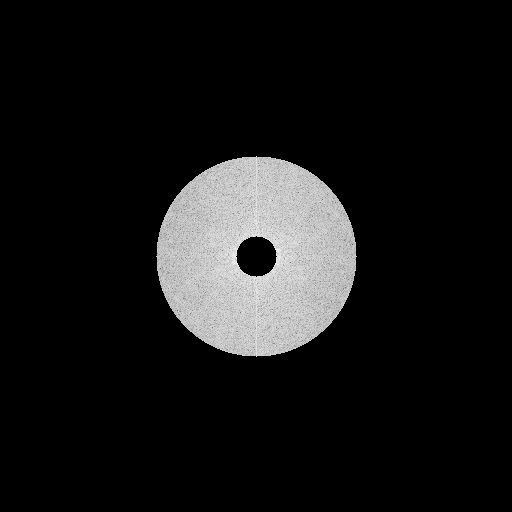
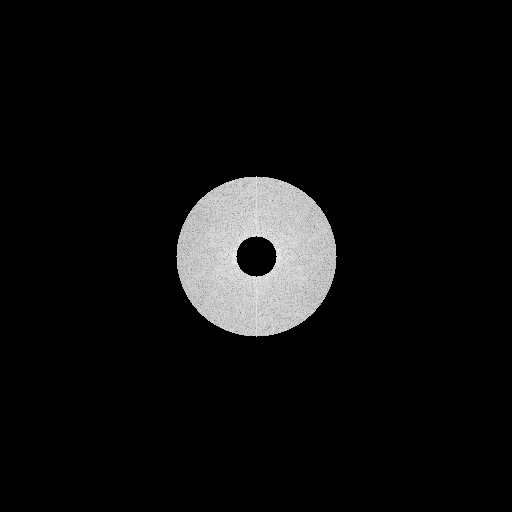
filtros

Changed region(s): [[0.2812, 0.2812, 0.7188, 0.7188]]

diff --git a/trabalho2/trabalho2.py b/trabalho2/trabalho2.py
@@ -30,16 +30,16 @@ def create_filters(img):
 
     #kernel passa-baixa
     passa_baixa = np.zeros((rows, cols), np.uint8)
-    cv2.circle(passa_baixa, image_center, 80, 1, cv2.FILLED)
+    cv2.circle(passa_baixa, image_center, 60, 1, cv2.FILLED)
 
     #kernel passa-faixa
     passa_faixa = np.zeros((rows, cols), np.uint8)
-    cv2.circle(passa_faixa, image_center, 100, 1, cv2.FILLED)
+    cv2.circle(passa_faixa, image_center, 80, 1, cv2.FILLED)
     cv2.circle(passa_faixa, image_center, 20, 0, cv2.FILLED)
 
     #kernel passa-alta
     passa_alta = np.ones((rows, cols), np.uint8)
-    cv2.circle(passa_alta, image_center, 60, 0, cv2.FILLED) 
+    cv2.circle(passa_alta, image_center, 75, 0, cv2.FILLED) 
 
     return passa_baixa, passa_faixa, passa_alta
 
